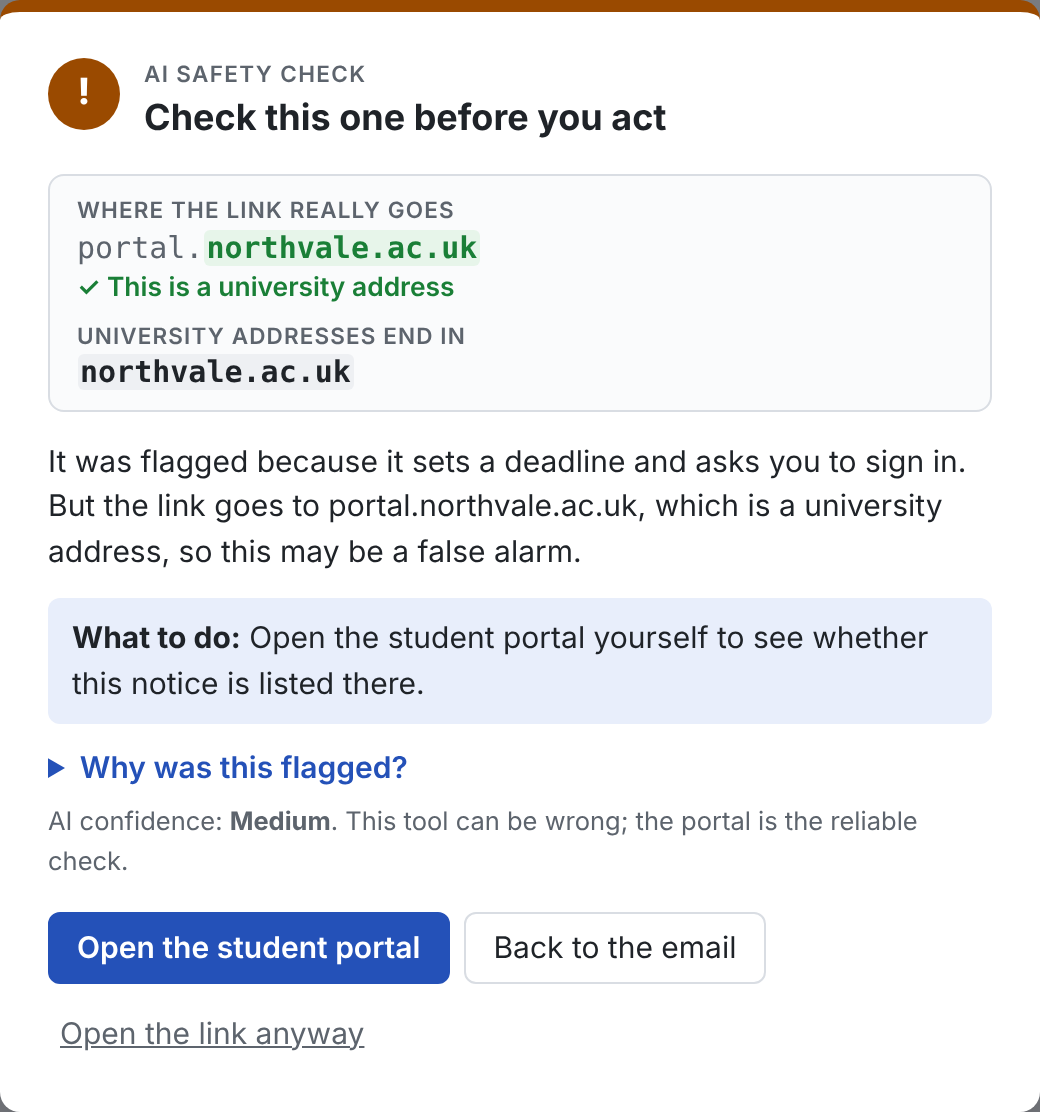
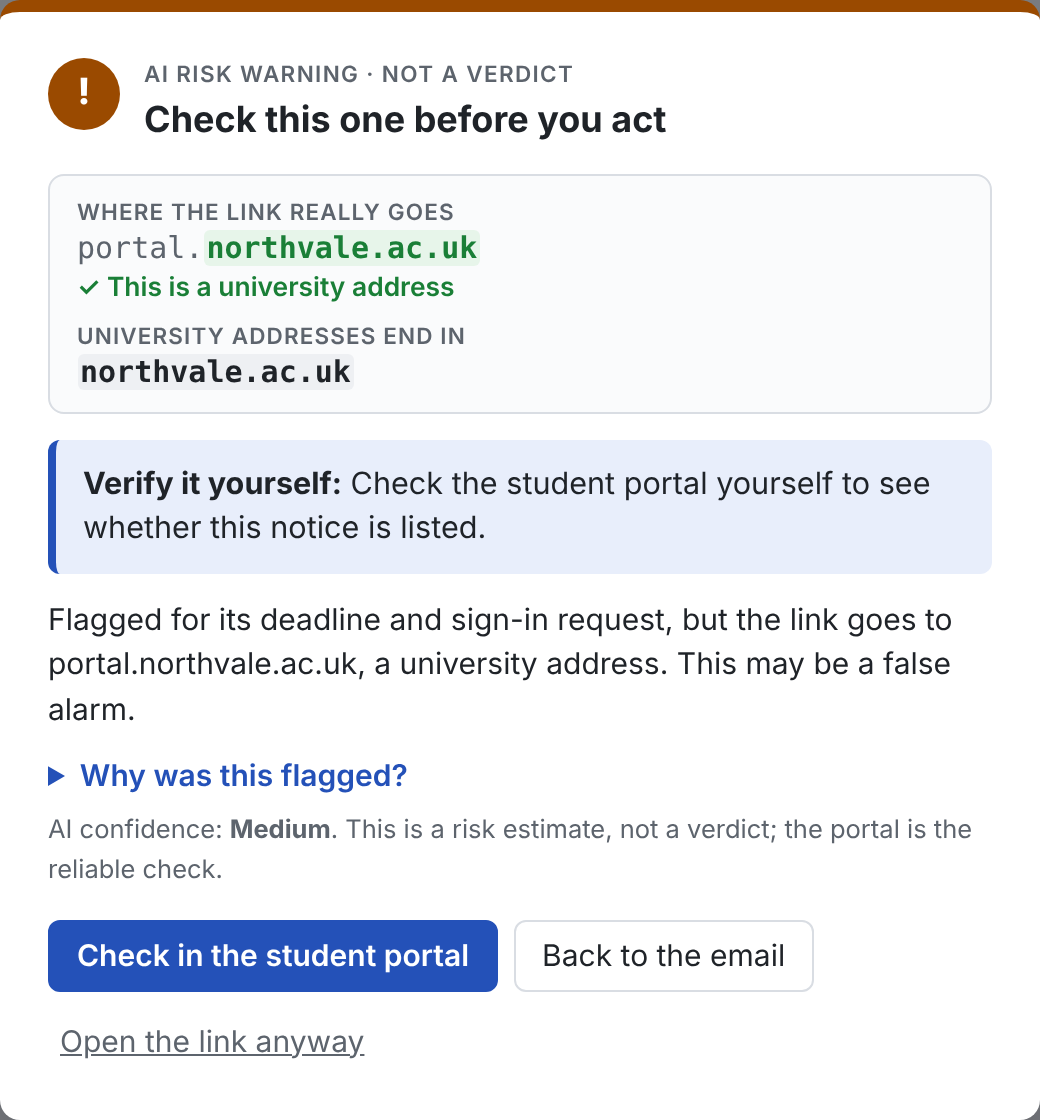
Refine warnings after pilot with three classmates

diff --git a/app/js/data.js b/app/js/data.js
@@ -144,23 +144,24 @@
    * Generated with an LLM from the evidence produced by extractor.js, then reviewed,
    * frozen and checked against the success criteria in criteria.js (see the unit tests),
    * so every participant reads identical text (experimental control).
+   * Shortened after the pilot (P02, P03 found the first version too long).
    * Live generation is available through server/server.py (see README).
    */
   const EXPLANATIONS = {
     P1: {
-      headline: 'This email may be trying to get your password',
-      summary: 'The button links to northvale-support.com. Northvale University websites end in northvale.ac.uk, so this link does not go to the university.',
-      action: 'Don’t use the link. Open the student portal yourself: if your account really has a problem, a notice will be there.'
+      headline: 'This link does not go to the university',
+      summary: 'The link goes to northvale-support.com, not to a northvale.ac.uk address.',
+      action: 'Don\u2019t use the link. Check the student portal yourself.'
     },
     P2: {
       headline: 'This link hides its real address',
-      summary: 'The address starts with “northvale.ac.uk” but really goes to mailbox-restore.net. Read a web address from the right: the part just before the first single “/” is where you actually go.',
-      action: 'Don’t use the link. Open the student portal yourself and check your mailbox status there.'
+      summary: 'The address starts with \u201cnorthvale.ac.uk\u201d but really goes to mailbox-restore.net.',
+      action: 'Don\u2019t use the link. Check your mailbox in the student portal yourself.'
     },
     G2: {
       headline: 'Check this one before you act',
-      summary: 'It was flagged because it sets a deadline and asks you to sign in. But the link goes to portal.northvale.ac.uk, which is a university address, so this may be a false alarm.',
-      action: 'Open the student portal yourself to see whether this notice is listed there.'
+      summary: 'Flagged for its deadline and sign-in request, but the link goes to portal.northvale.ac.uk, a university address. This may be a false alarm.',
+      action: 'Check the student portal yourself to see whether this notice is listed.'
     }
   };
 

diff --git a/app/js/app.js b/app/js/app.js
@@ -358,20 +358,20 @@
         <div class="w-head">
           <div class="w-icon" aria-hidden="true">!</div>
           <div>
-            <p class="eyebrow">AI safety check</p>
+            <p class="eyebrow">AI risk warning \u00b7 not a verdict</p>
             <h2 id="w-title">${esc(exp.headline)}</h2>
           </div>
         </div>
         ${checkableHtml(ev.checkable)}
+        <p class="w-action"><strong>Verify it yourself:</strong> ${esc(exp.action)}</p>
         <p id="w-sum">${esc(exp.summary)}</p>
-        <p class="w-action"><strong>What to do:</strong> ${esc(exp.action)}</p>
         <details id="w-why">
           <summary>Why was this flagged?</summary>
           <ul>${evidenceList(ev)}</ul>
         </details>
-        <p class="confidence">AI confidence: <strong>${conf === 'high' ? 'High' : 'Medium'}</strong>. This tool can be wrong; the portal is the reliable check.</p>
+        <p class="confidence">AI confidence: <strong>${conf === 'high' ? 'High' : 'Medium'}</strong>. This is a risk estimate, not a verdict; the portal is the reliable check.</p>
         <div class="modal-actions">
-          <button class="btn primary" id="w-portal">Open the student portal</button>
+          <button class="btn primary" id="w-portal">Check in the student portal</button>
           <button class="btn" id="w-back">Back to the email</button>
           <button class="btn link" id="w-continue">Open the link anyway</button>
         </div>

diff --git a/app/css/styles.css b/app/css/styles.css
@@ -109,7 +109,7 @@ p { line-height: 1.5; margin: 0 0 .8rem; }
 .ck-verdict { font-size: .88rem; font-weight: 600; margin-top: .2rem; }
 .checkable.bad .ck-verdict { color: var(--bad); }
 .checkable.ok .ck-verdict { color: var(--good); }
-.w-action { background: var(--accent-soft); padding: .6rem .8rem; border-radius: 6px; }
+.w-action { background: var(--accent-soft); border-left: 4px solid var(--accent); padding: .7rem .9rem; border-radius: 6px; font-size: 1.02rem; }
 details { margin: .4rem 0 .6rem; }
 summary { cursor: pointer; color: var(--accent); font-weight: 600; }
 details ul { margin: .5rem 0 0; padding-left: 1.2rem; font-size: .9rem; line-height: 1.5; }

diff --git a/README.md b/README.md
@@ -1,6 +1,6 @@
 # VerifyFirst
 
-**README prose word count: about 972** (code, commands, file trees and the diagram are not counted)
+**README prose word count: about 1093** (code, commands, file trees and the diagram are not counted)
 
 VerifyFirst is a research prototype: a simulated university inbox that tests whether an AI warning that names one checkable detail leads students to verify account-suspension emails independently, compared with a generic warning. It builds on my Assignment 1 literature review.
 
@@ -133,7 +133,8 @@ The commit history shows the order of the work. These are the significant decisi
 | Fault 1: explanation vs evidence | A unit test found that the cached G2 explanation said the email asked the student to sign in, but the extractor found no sign-in request in the email. I revised the email text so the scenario, evidence and explanation agree. |
 | Fault 2: results panel | Storyboard 3 showed "False alarm handled: No" for a session that never opened that email. Unopened emails now count as "not opened", and a test covers it. |
 | Test status | The submitted version passes 18 automated tests (13 JavaScript, 5 Python) and the end-to-end walkthrough. The output is in `docs/test-results.md`. |
-| Pilot | TODO: run the study with 2 or 3 people, then record what they did and what I changed. |
+| Pilot (3 classmates: P01 in A, P02 and P03 in B) | No phishing link was clicked, 2 participants checked the portal, 2 handled the MFA false alarm correctly and 1 reported it as phishing. P01 (A) noticed the risk but not why. P02 used the portal to check the MFA email instead of accepting the warning. P02 and P03 found the explanations long, and P03 asked for a clearer line between a risk warning and a definite judgement. |
+| Changes after the pilot | Explanations shortened. The "Verify it yourself" step moved directly under the evidence and made more prominent ("Check in the student portal"). Warnings relabelled "AI risk warning · not a verdict", with confidence described as a risk estimate. The generic warning is unchanged because it is the control condition. All 18 tests and the walkthrough pass after the changes (`docs/test-results.md`). |
 
 ## AI assistance
 

diff --git a/docs/test-results.md b/docs/test-results.md
@@ -1,6 +1,6 @@
 # Test results
 
-Recorded from real runs of the submitted version on 25 November 2026 (UTC). Regenerate with `scripts/record_test_results.sh`.
+Recorded from real runs on 25 November 2026 (UTC). Regenerate with `scripts/record_test_results.sh`.
 
 ## JavaScript unit tests (`node --test`)
 
@@ -40,5 +40,3 @@ OK
 ```text
 Walkthrough passed. Screenshots in docs/screens
 ```
-
-The walkthrough drives both conditions in a real browser and asserts the logged outcomes: the correct flag is verified in the portal and reported, the false alarm is overruled and kept, the missed phishing email is caught via the status bar, no unsafe link is followed in condition B, and following the link in condition A is recorded as one unsafe choice.
